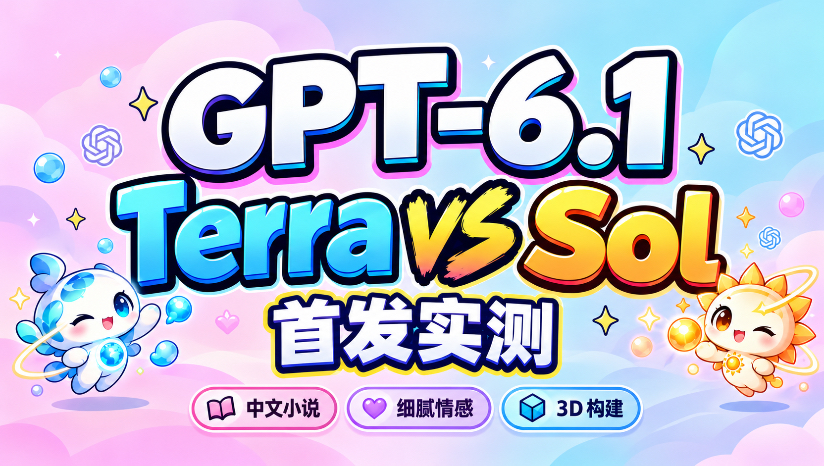
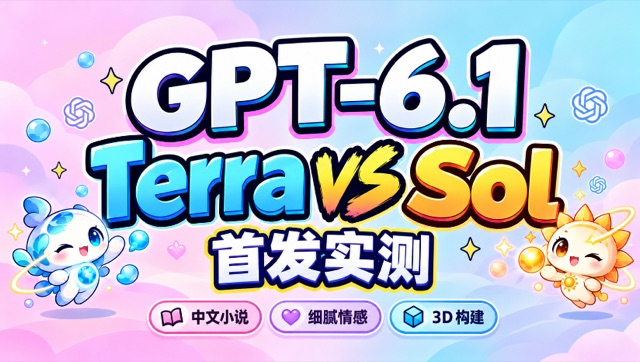
图片优化：压缩至640px+JPEG80%+懒加载，1.6MB→392KB

diff --git a/2026-10-28_AI视界.html b/2026-10-28_AI视界.html
@@ -127,7 +127,7 @@ body{background:#e3dfd2;color:var(--ink);font-family:var(--serif);line-height:1.
 
       <div class="video">
         <a class="thumb" href="https://www.bilibili.com/video/BV1GHxL6eES1" target="_blank" rel="noopener">
-          <img src="img/genie4.jpg" alt="Genie 4">
+          <img src="img/genie4.jpg" alt="Genie 4" loading="lazy">
           <span class="btn"></span>
         </a>
         <div class="cap"><span class="dur">▶ 2026-10-28</span>Google DeepMind 发布世界模型 Genie 4【AI 早报】</div>
@@ -135,7 +135,7 @@ body{background:#e3dfd2;color:var(--ink);font-family:var(--serif);line-height:1.
 
       <div class="video">
         <a class="thumb" href="https://www.bilibili.com/video/BV1G6nf6kEux" target="_blank" rel="noopener">
-          <img src="img/k31-pro.png" alt="K3.1 Pro">
+          <img src="img/k31-pro.jpg" alt="K3.1 Pro" loading="lazy">
           <span class="btn"></span>
         </a>
         <div class="cap"><span class="dur">▶ 2026-10-27</span>最聪明的国模？1500 刀实测 Kimi K3.1 Pro</div>
@@ -143,7 +143,7 @@ body{background:#e3dfd2;color:var(--ink);font-family:var(--serif);line-height:1.
 
       <div class="video">
         <a class="thumb" href="https://www.bilibili.com/video/BV1vWxK63Euy" target="_blank" rel="noopener">
-          <img src="img/gpt61-terra.jpg" alt="GPT-6.1 Terra">
+          <img src="img/gpt61-terra.jpg" alt="GPT-6.1 Terra" loading="lazy">
           <span class="btn"></span>
         </a>
         <div class="cap"><span class="dur">▶ 2026-10-27</span>GPT-6.1 Terra VS Sol 首发实测！</div>
@@ -151,7 +151,7 @@ body{background:#e3dfd2;color:var(--ink);font-family:var(--serif);line-height:1.
 
       <div class="video">
         <a class="thumb" href="https://www.bilibili.com/video/BV1p9xM6bE7R" target="_blank" rel="noopener">
-          <img src="img/k31-2.jpg" alt="K3.1 Pro">
+          <img src="img/k31-2.jpg" alt="K3.1 Pro" loading="lazy">
           <span class="btn"></span>
         </a>
         <div class="cap"><span class="dur">▶ 2026-10-27</span>【实测】等了三个月！Kimi K3.1 Pro 这次有点不一样！</div>
@@ -159,7 +159,7 @@ body{background:#e3dfd2;color:var(--ink);font-family:var(--serif);line-height:1.
 
       <div class="video">
         <a class="thumb" href="https://www.bilibili.com/video/BV1XgnH6qEzf" target="_blank" rel="noopener">
-          <img src="img/xinghuo.jpg" alt="星火 X2.6">
+          <img src="img/xinghuo.jpg" alt="星火 X2.6" loading="lazy">
           <span class="btn"></span>
         </a>
         <div class="cap"><span class="dur">▶ 2026-10-23</span>全国产算力训练的讯飞星火 Spark X2.6 实测【两分钟】</div>
